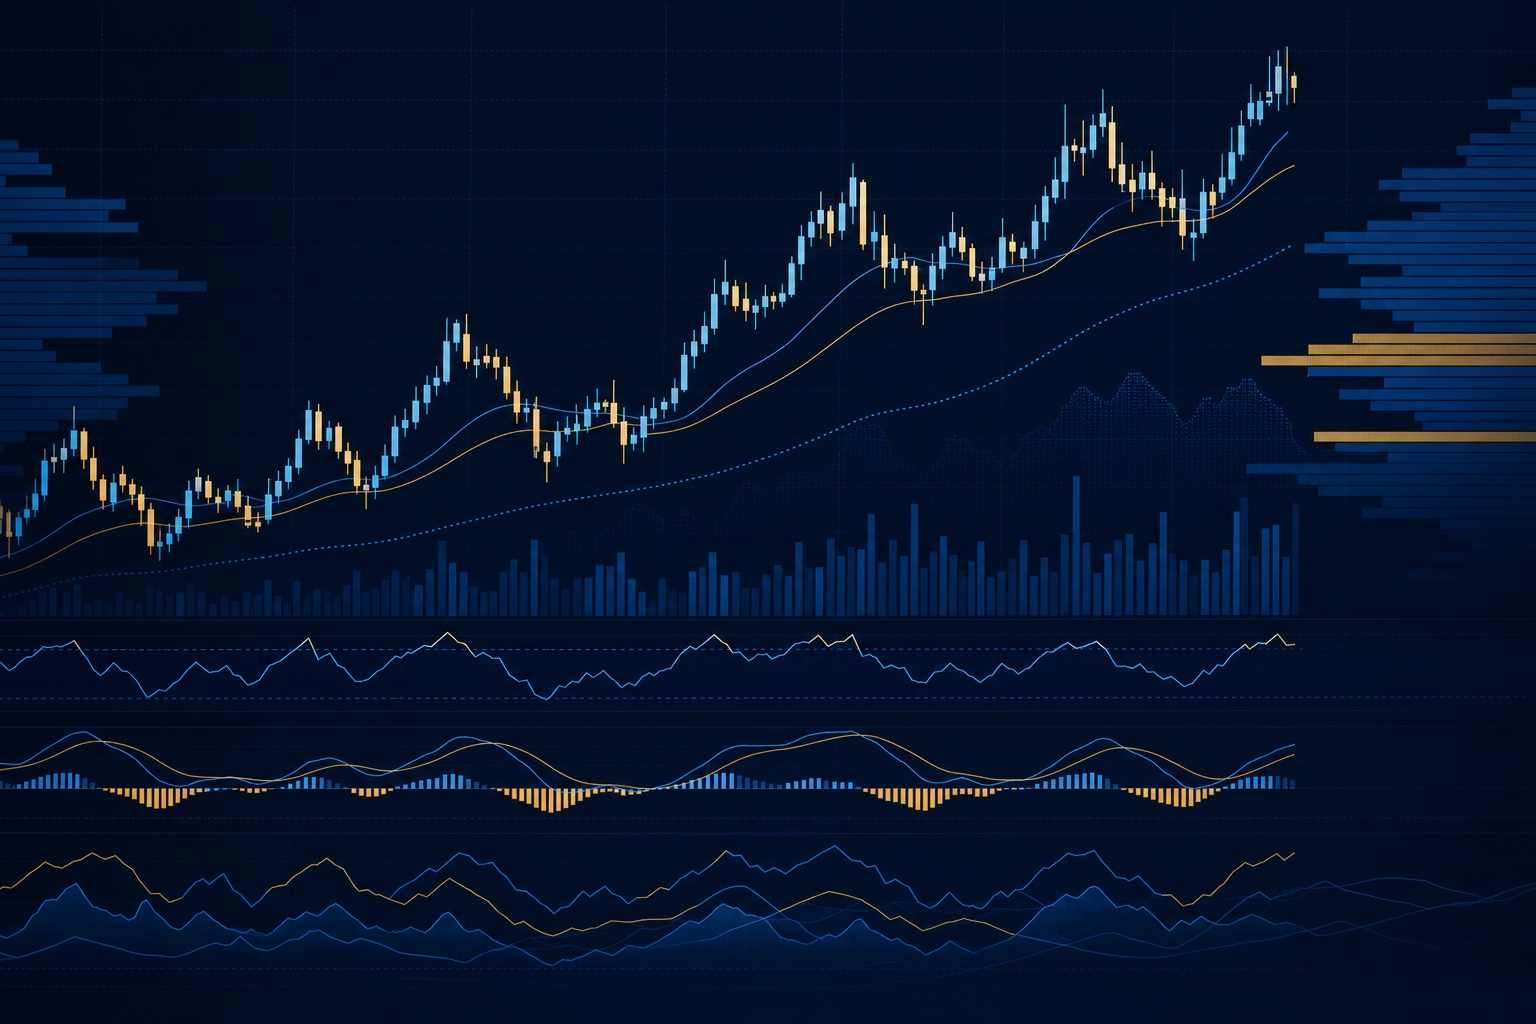
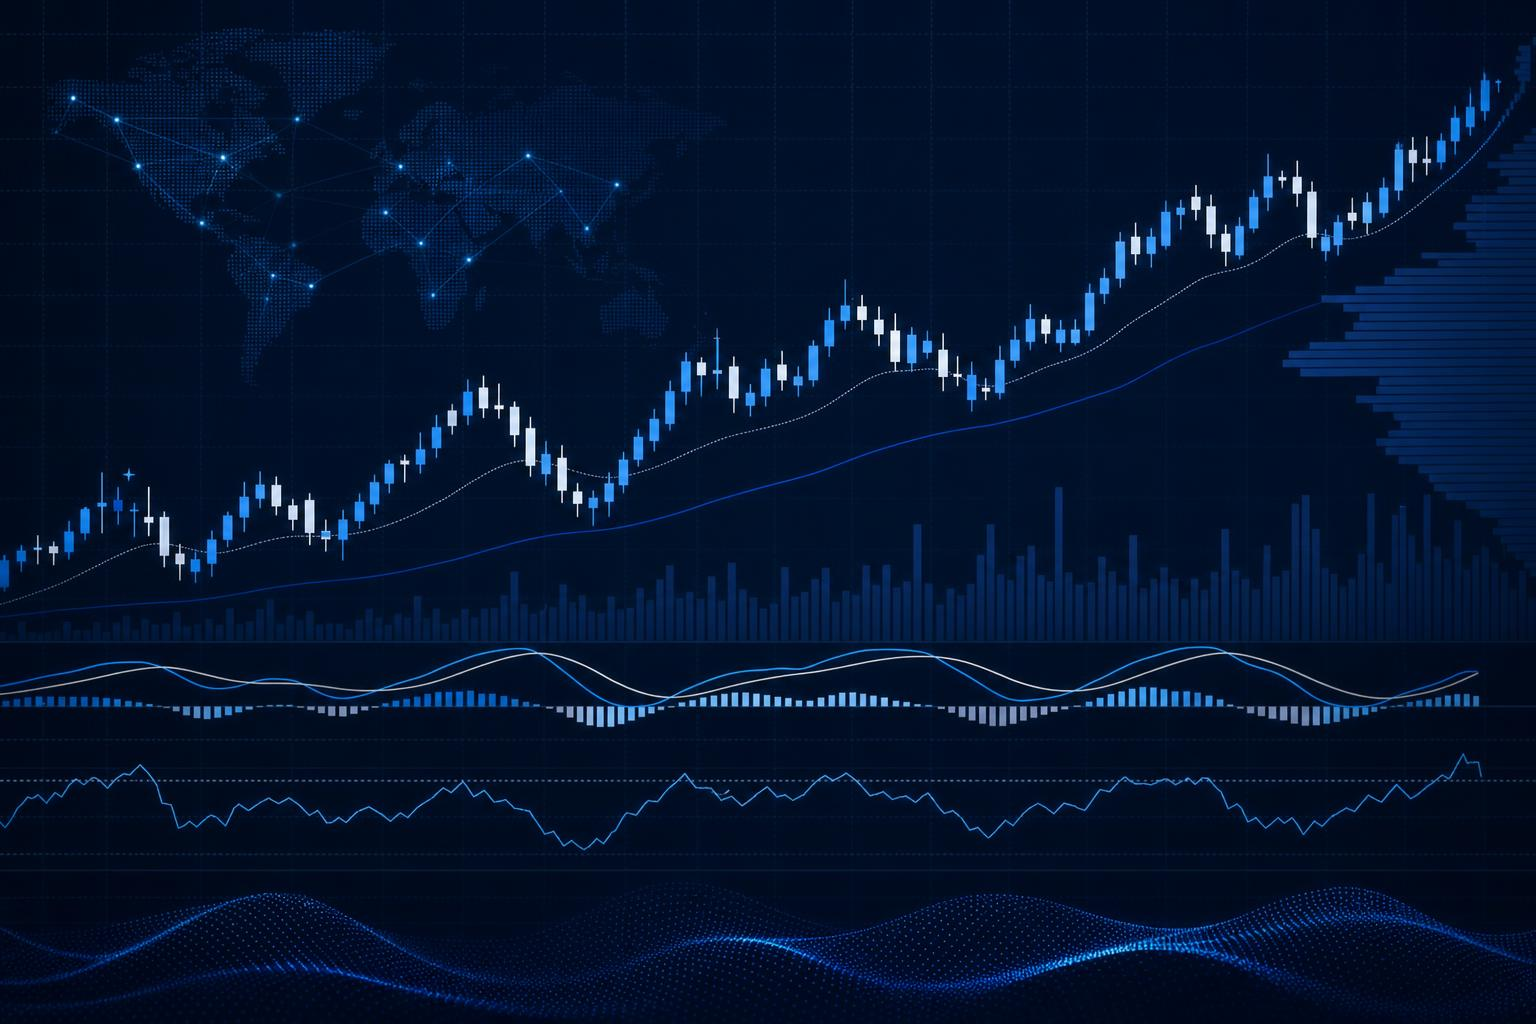
Add og:image for social sharing

diff --git a/about/index.html b/about/index.html
@@ -6,6 +6,10 @@
  <title>About | Dependability Holdings LLC</title>
  <meta name="description" content="Dependability Holdings LLC provides independent S&P 500 market research, VIX analysis, and defined-risk options strategy research for informed investors.">
  <link rel="canonical" href="/about">
+<meta property="og:image" content="https://dependability.us/og-image.jpg">
+ <meta property="og:url" content="https://dependability.us/about/">
+ <meta property="og:type" content="website">
+
  <link rel="icon" type="image/svgxml" href="/favicon.svg">
  <link rel="manifest" href="/site.webmanifest">
  <link rel="stylesheet" href="/style.css">

diff --git a/contact/index.html b/contact/index.html
@@ -6,6 +6,10 @@
  <title>Contact | Dependability Holdings LLC</title>
  <meta name="description" content="Contact Dependability Holdings LLC for research inquiries, data questions, and partnership opportunities in market analysis and options strategy.">
  <link rel="canonical" href="/contact">
+<meta property="og:image" content="https://dependability.us/og-image.jpg">
+ <meta property="og:url" content="https://dependability.us/contact/">
+ <meta property="og:type" content="website">
+
  <link rel="icon" type="image/svg+xml" href="/favicon.svg">
  <link rel="manifest" href="/site.webmanifest">
  <link rel="stylesheet" href="/style.css">

diff --git a/disclaimer/index.html b/disclaimer/index.html
@@ -6,6 +6,10 @@
  <title>Disclaimer | Dependability Holdings LLC</title>
  <meta name="description" content="Legal disclaimer for Dependability Holdings LLC market research, options strategy content, and financial analysis published on dependability.us.">
  <link rel="canonical" href="/disclaimer">
+<meta property="og:image" content="https://dependability.us/og-image.jpg">
+ <meta property="og:url" content="https://dependability.us/disclaimer/">
+ <meta property="og:type" content="website">
+
  <link rel="icon" type="image/svg+xml" href="/favicon.svg">
  <link rel="manifest" href="/site.webmanifest">
  <link rel="stylesheet" href="/style.css">

diff --git a/privacy/index.html b/privacy/index.html
@@ -6,6 +6,10 @@
  <title>Privacy Policy | Dependability Holdings LLC</title>
  <meta name="description" content="Privacy policy for Dependability Holdings LLC — what data is collected, how it is used, and your rights regarding personal information.">
  <link rel="canonical" href="/privacy">
+<meta property="og:image" content="https://dependability.us/og-image.jpg">
+ <meta property="og:url" content="https://dependability.us/privacy/">
+ <meta property="og:type" content="website">
+
  <link rel="icon" type="image/svg+xml" href="/favicon.svg">
  <link rel="manifest" href="/site.webmanifest">
  <link rel="stylesheet" href="/style.css">

diff --git a/strategies.html b/strategies.html
@@ -8,6 +8,10 @@
  <link rel="stylesheet" href="/style.css">
  <link rel="icon" type="image/svg+xml" href="/favicon.svg">
  <link rel="canonical" href="https://dependability.us/strategies">
+<meta property="og:image" content="https://dependability.us/og-image.jpg">
+ <meta property="og:url" content="https://dependability.us/strategies/">
+ <meta property="og:type" content="website">
+
  <script async src="https://pagead2.googlesyndication.com/pagead/js/adsbygoogle.js?client=ca-pub-9312870448453345" crossorigin="anonymous"></script>
  <!-- FAQ Schema for Google rich snippets -->
  <script type="application/ld+json">